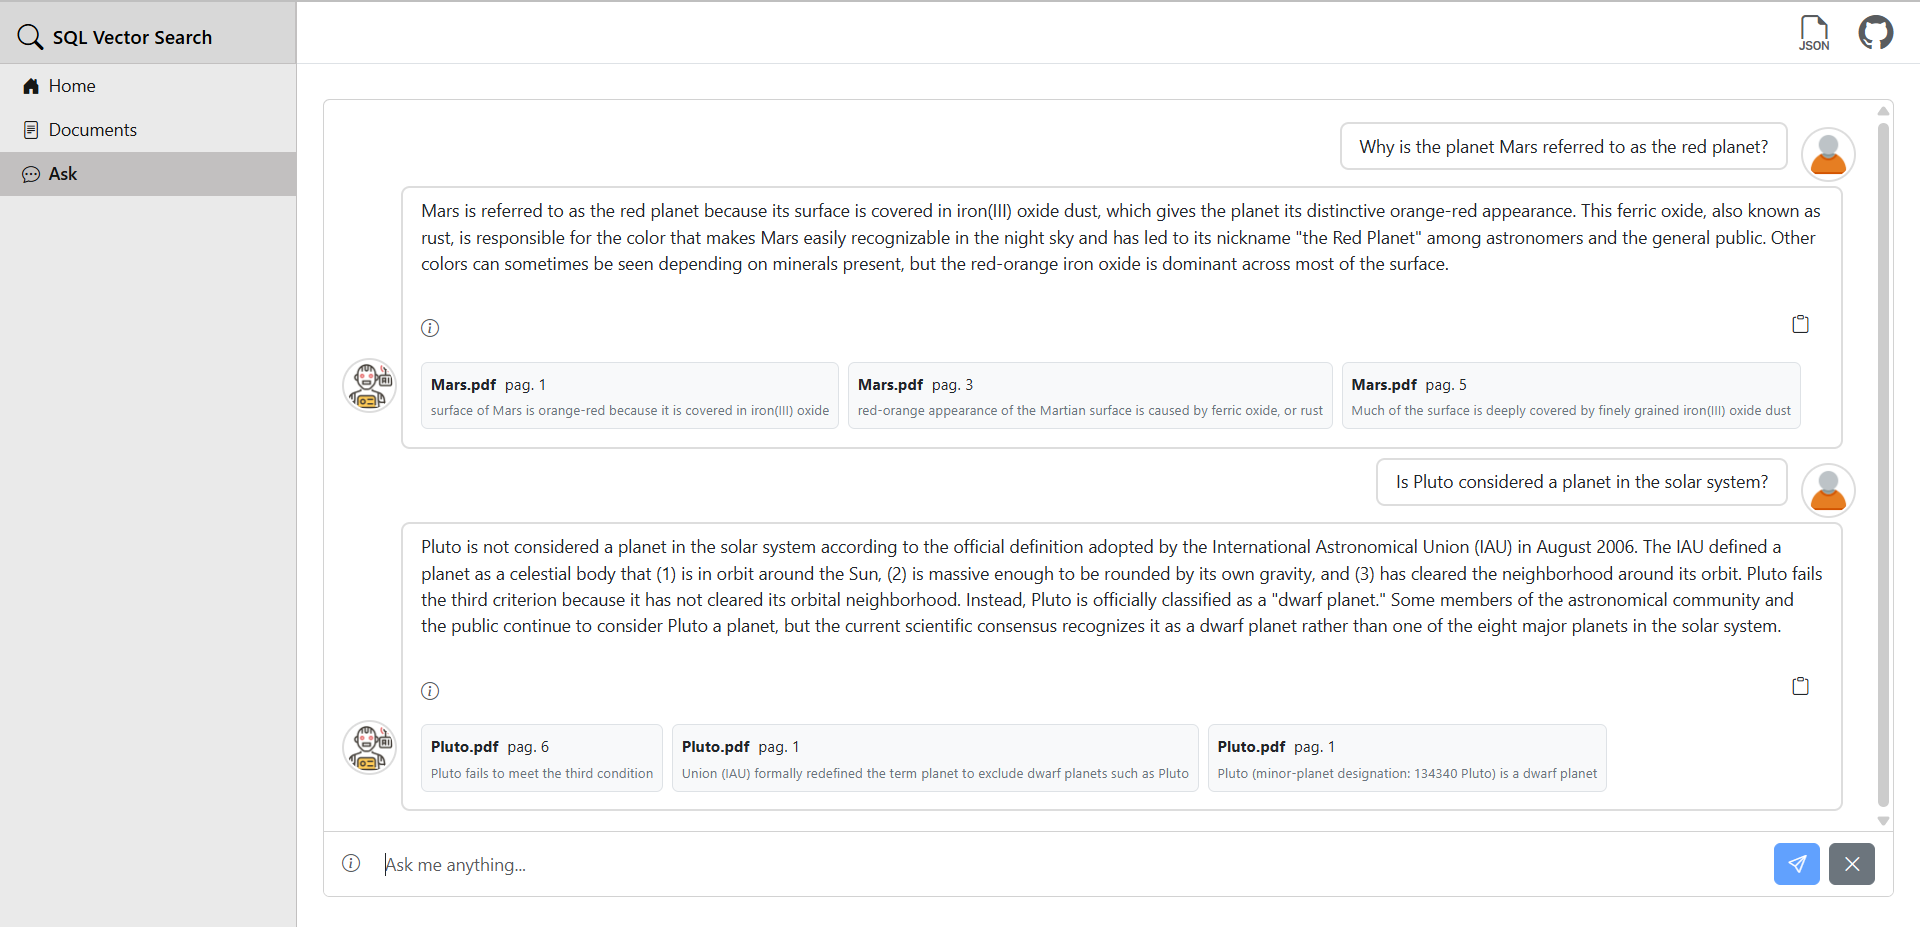
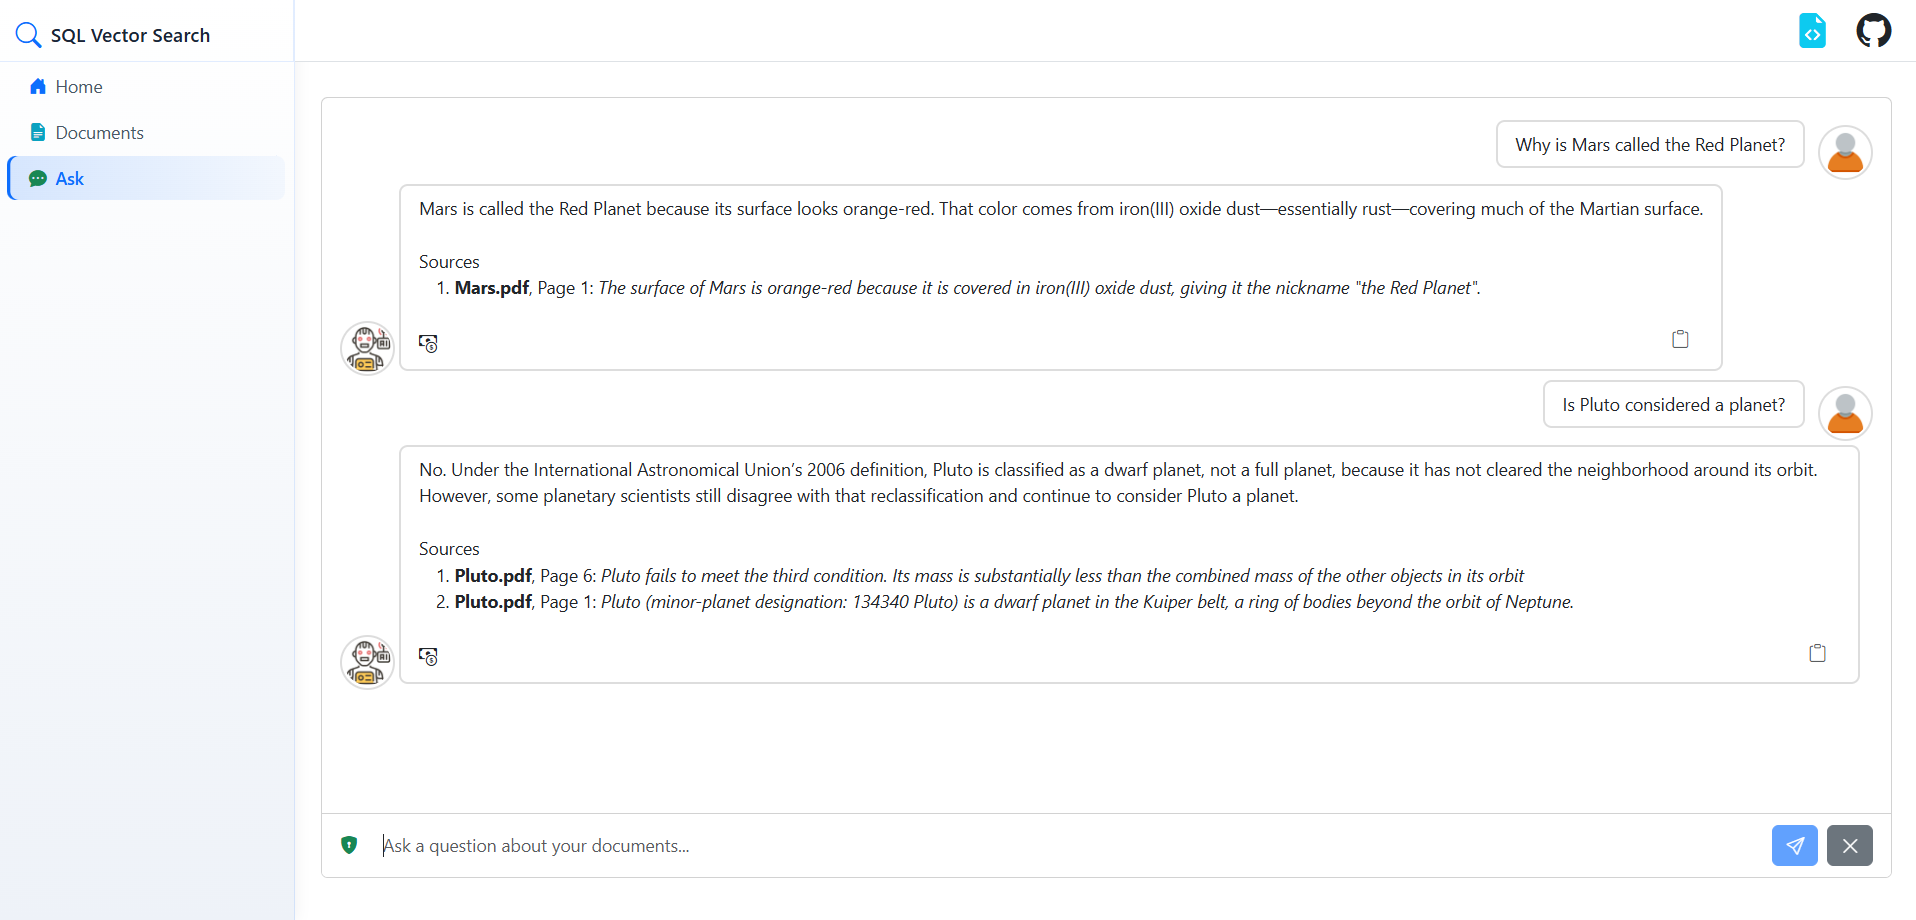
Remove TraceHttpClientHandler and update DI setup
Removed the custom TraceHttpClientHandler and switched OpenAIClient initialization to use the default HTTP transport. Cleaned up unused using directives. Updated SqlDatabaseVectorSearch_WebApp.png with a new version.

diff --git a/SqlDatabaseVectorSearch/Program.cs b/SqlDatabaseVectorSearch/Program.cs
@@ -1,9 +1,6 @@
 using System.ClientModel;
-using System.ClientModel.Primitives;
 using System.Net.Mime;
 using System.Text;
-using System.Text.Encodings.Web;
-using System.Text.Json;
 using System.Text.Json.Serialization;
 using FluentValidation;
 using Microsoft.Agents.AI;
@@ -85,8 +82,7 @@ builder.Services.AddChatClient(_ =>
 {
     var chatClient = new OpenAIClient(new ApiKeyCredential(aiSettings.ChatCompletion.ApiKey), new()
     {
-        Endpoint = new(aiSettings.ChatCompletion.Endpoint),
-        Transport = new HttpClientPipelineTransport(new HttpClient(new TraceHttpClientHandler()))
+        Endpoint = new(aiSettings.ChatCompletion.Endpoint)
     }).GetResponsesClient().AsIChatClientWithStoredOutputDisabled(aiSettings.ChatCompletion.Deployment);
 
     return chatClient;
@@ -332,48 +328,4 @@ static async Task ConfigureDatabaseAsync(IServiceProvider serviceProvider)
     var dbContext = scope.ServiceProvider.GetRequiredService<ApplicationDbContext>();
 
     await dbContext.Database.MigrateAsync();
-}
-
-public class TraceHttpClientHandler : HttpClientHandler
-{
-    private static readonly JsonSerializerOptions jsonSerializerOptions = new()
-    {
-        WriteIndented = true,
-        Encoder = JavaScriptEncoder.UnsafeRelaxedJsonEscaping
-    };
-
-    protected override async Task<HttpResponseMessage> SendAsync(HttpRequestMessage request, CancellationToken cancellationToken)
-    {
-        var requestString = request.Content is null ? "(no request body)" : await request.Content.ReadAsStringAsync(cancellationToken);
-
-        PrintText($"Raw Request ({request.RequestUri})", ConsoleColor.Green);
-        PrintText(FormatJson(requestString), ConsoleColor.DarkGray);
-        PrintSeparator();
-
-        var response = await base.SendAsync(request, cancellationToken);
-
-        return response;
-
-        static void PrintText(string message, ConsoleColor color)
-        {
-            Console.ForegroundColor = color;
-            Console.WriteLine(message);
-            Console.ResetColor();
-        }
-
-        static void PrintSeparator() => Console.WriteLine(new string('-', 50));
-    }
-
-    private static string FormatJson(string input)
-    {
-        try
-        {
-            var jsonElement = JsonSerializer.Deserialize<JsonElement>(input);
-            return JsonSerializer.Serialize(jsonElement, jsonSerializerOptions);
-        }
-        catch
-        {
-            return input;
-        }
-    }
 }
